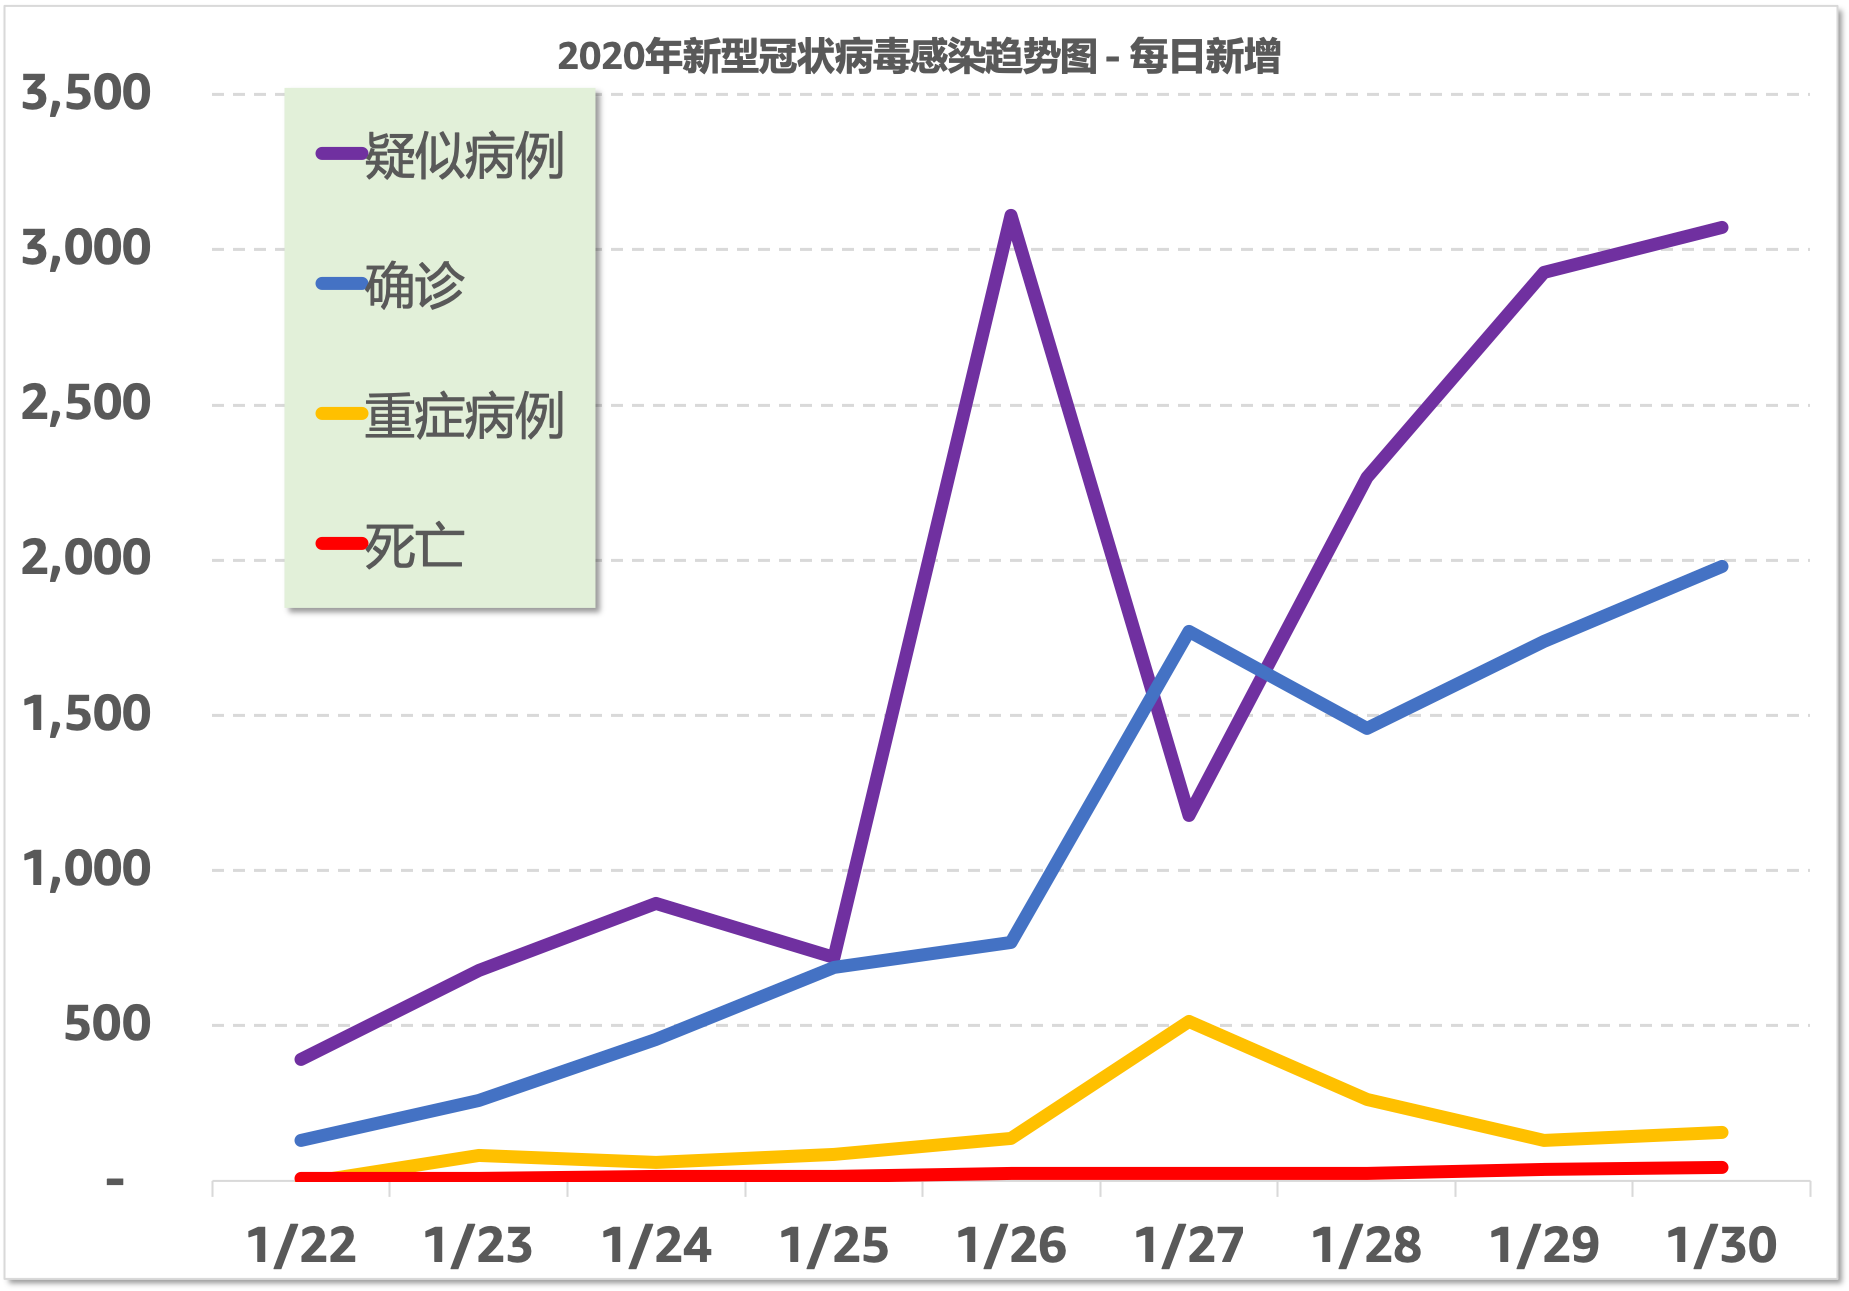
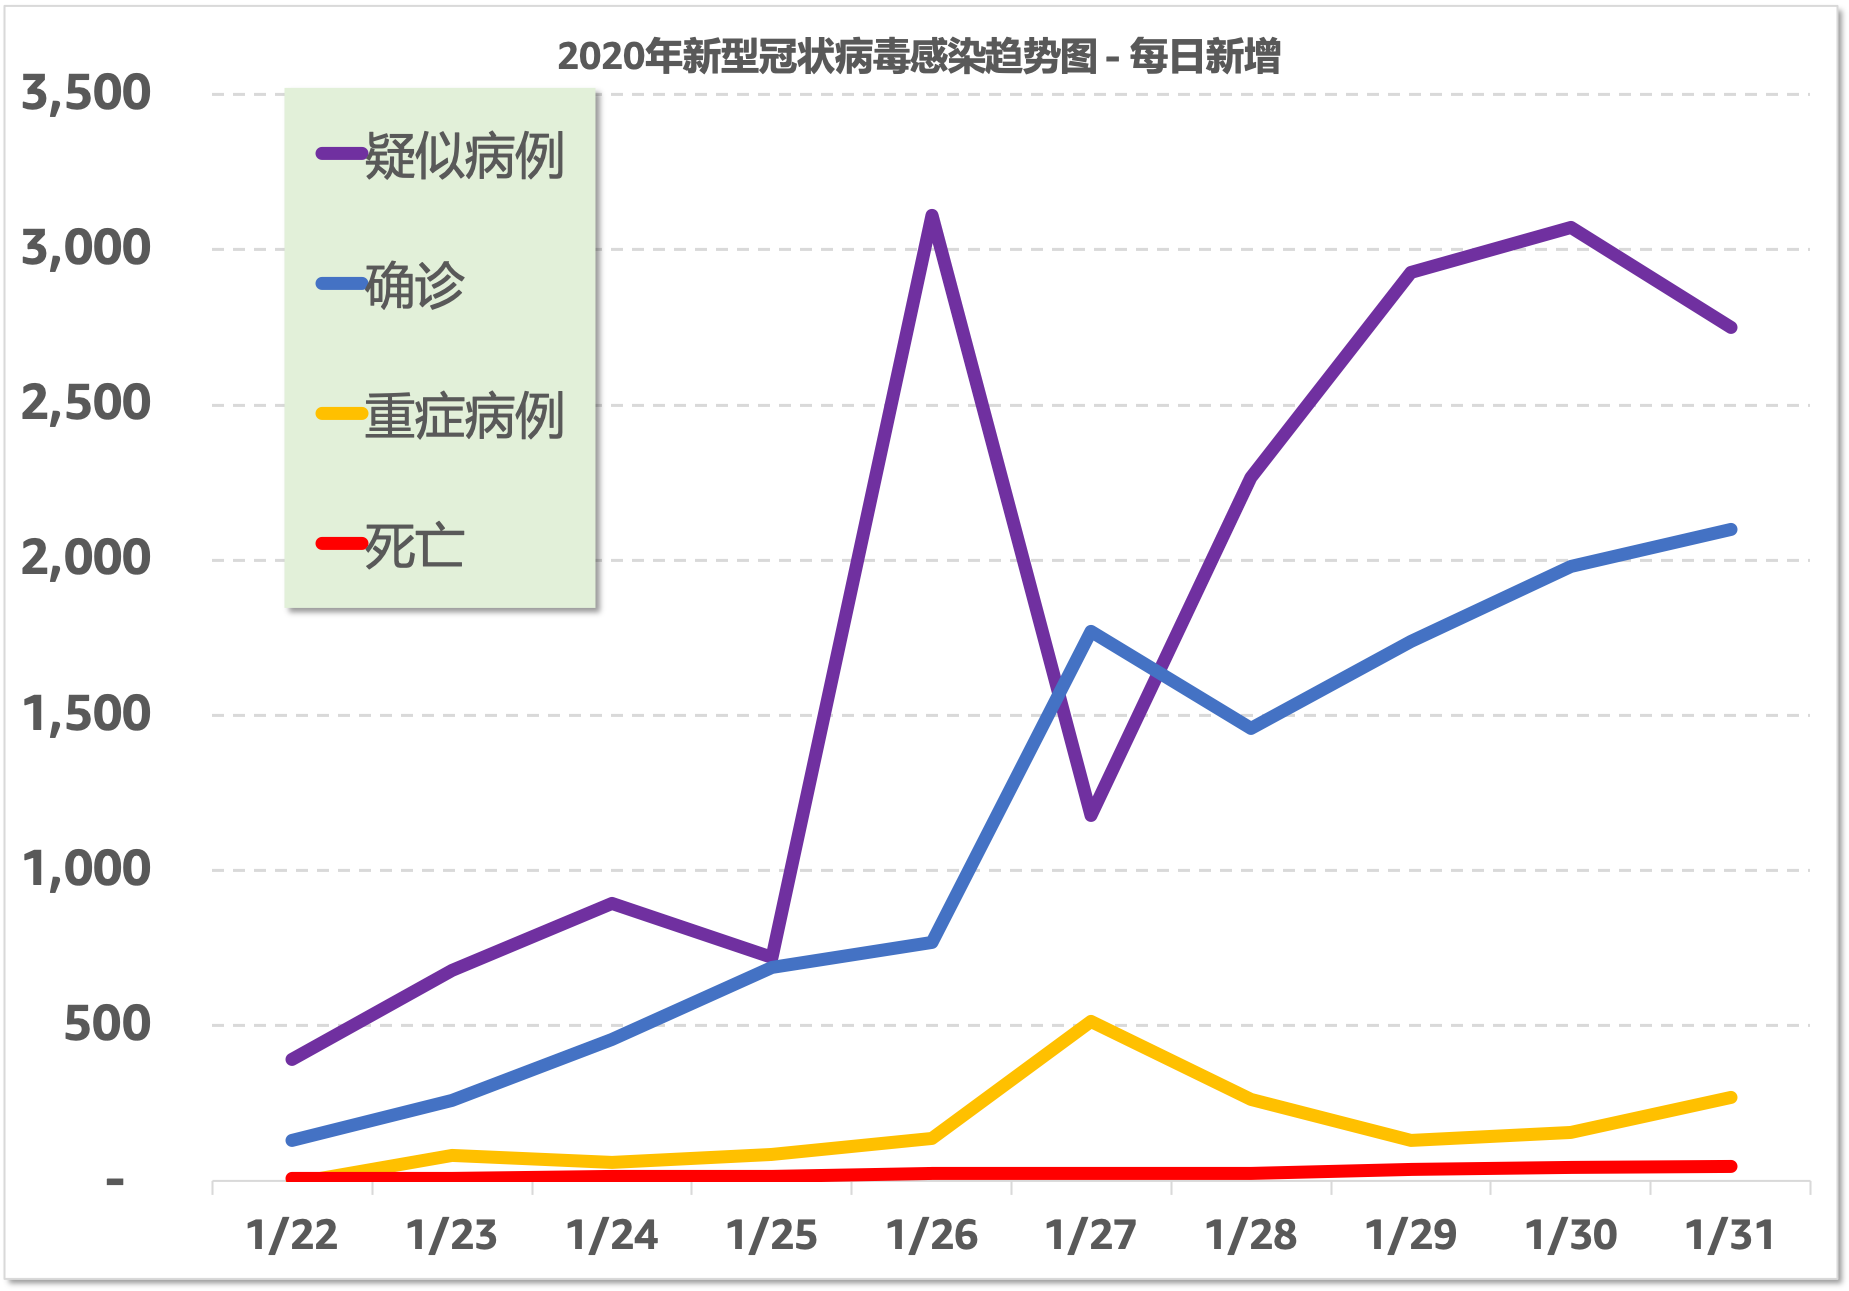
Update for Jan 31 data

diff --git a/README.md b/README.md
@@ -4,7 +4,7 @@
 
 这是根据卫建委发布的官方数据制作的每日疫情发展趋势图。每日830~930之间根据卫建委发布的最新疫情通报更新。
 
-- 更新时间: **`9:43, 1/31/2020`**
+- 更新时间: **`10:00, 2/1/2020`**
 - [网页地址](https://zire.github.io/pandemic2020/)
 - [Github Repo地址](https://github.com/zire/pandemic2020)
 - 数据来源：[中华人民共和国国家卫生健康委员会卫生应急办公室](http://www.nhc.gov.cn/)
@@ -30,19 +30,20 @@
 
 ### 累计
 
-| 日期 | 密切接触 | 接受医学观察 | 疑似病例 | 确诊 | 重症病例 | 死亡 |
-| --- | --- | --- | --- | --- | --- | --- |
-|1/30/2020|113,579|102,427|15,238|9,692|1,527|213|
-|1/29/2020|88,693|81,947|12,167|7,711|1,370|170|
-|1/28/2020|65,537|59,990|9,239|5,974|1,239|132|
-|1/27/2020|47,833|44,132|6,973|4,515|976|106|
-|1/26/2020|32,799|30,453|5,794|2,744|461|80|
-|1/25/2020 | 23,431 | 21,556| 2,684|1,975| 324|56|
-|1/24/2020|15,197|13,967|1,965|1,287|237|41|
-|1/23/2020|9,507|8,420|1,072|830|177|25|
-|1/22/2020|5,897|4,928|393|571|95|17|
-|1/21/2020|2,197| 1,394| N.A. |440|102|9|
-|1/20/2020|1,739|922|54|291|N.A.|N.A.|
+| 日期 | 密切接触 | 接受医学观察 | 疑似病例 | 确诊 | 重症病例 | 死亡 | 治愈|
+| --- | --- | --- | --- | --- | --- | --- | --- |
+|1/31/2020|136,987|118,478|17,988|11,791|1,795|259|243|
+|1/30/2020|113,579|102,427|15,238|9,692|1,527|213|171|
+|1/29/2020|88,693|81,947|12,167|7,711|1,370|170|124|
+|1/28/2020|65,537|59,990|9,239|5,974|1,239|132|103|
+|1/27/2020|47,833|44,132|6,973|4,515|976|106|60|
+|1/26/2020|32,799|30,453|5,794|2,744|461|80|51|
+|1/25/2020 | 23,431 | 21,556| 2,684|1,975| 324|56|49|
+|1/24/2020|15,197|13,967|1,965|1,287|237|41|38|
+|1/23/2020|9,507|8,420|1,072|830|177|25|34|
+|1/22/2020|5,897|4,928|393|571|95|17|N.A.|
+|1/21/2020|2,197| 1,394| N.A. |440|102|9|N.A.|
+|1/20/2020|1,739|922|54|291|N.A.|N.A.|N.A.|
 
 ### 当日新增百分比
 
@@ -53,15 +54,16 @@
 |1/28/2020|37%|36%|32%|32%|27%|25%|72%|2.21%|
 |1/27/2020|46%|45%|20%|65%|112%|33%|18%|2.35%|
 |1/26/2020|40%|41%|116%|39%|42%|43%|4%|2.92%|
-|1/25/2020| 54% | 54% | 37%|53%| 37%|37%|29%|2.84%|
+|1/25/2020|54%|54%|37%|53%|37%|37%|29%|2.84%|
 |1/24/2020|60%|66%|83%|55%|34%|64%|12%|3.19%|
 |1/23/2020|61%|71%|173%|45%|86%|47%|N.A.|3.01%|
 |1/22/2020|168%|254%|N.A.|30%|-7%|89%|N.A.|2.98%|
-|1/21/2020|26%| 51%| N.A. |N.A.|N.A.|N.A.|
+|1/21/2020|26%| 51%| N.A. |N.A.|N.A.|N.A.|N.A.|N.A.|
 
 ## 数据来源
 
-- [截至1月30日24时新型冠状病毒感染的肺炎疫情最新情况](http://www.nhc.gov.cn/xcs/yqfkdt/202001/a53e6df293cc4ff0b5a16ddf7b6b2b31.shtml)
+- [截至1月31日24时新型冠状病毒感染的肺炎疫情最新情况](http://www.nhc.gov.cn/xcs/yqfkdt/202002/84faf71e096446fdb1ae44939ba5c528.shtml)
+- [截至1月30日24时新型冠状病毒感染的肺炎疫情最新情况](http://www.nhc.gov.cn/xcs/yqtb/202001/a53e6df293cc4ff0b5a16ddf7b6b2b31.shtml)
 - [截至1月29日24时新型冠状病毒感染的肺炎疫情最新情况](http://www.nhc.gov.cn/xcs/yqtb/202001/e71bd2e7a0824ca69f87bbf1bef2a3c9.shtml)
 - [截至1月28日24时新型冠状病毒感染的肺炎疫情最新情况](http://www.nhc.gov.cn/xcs/yqtb/202001/1c259a68d81d40abb939a0781c1fe237.shtml)
 - [截至1月27日24时新型冠状病毒感染的肺炎疫情最新情况](http://www.nhc.gov.cn/xcs/yqtb/202001/ec9fe7ea987d467d9462e7db509079e6.shtml)
